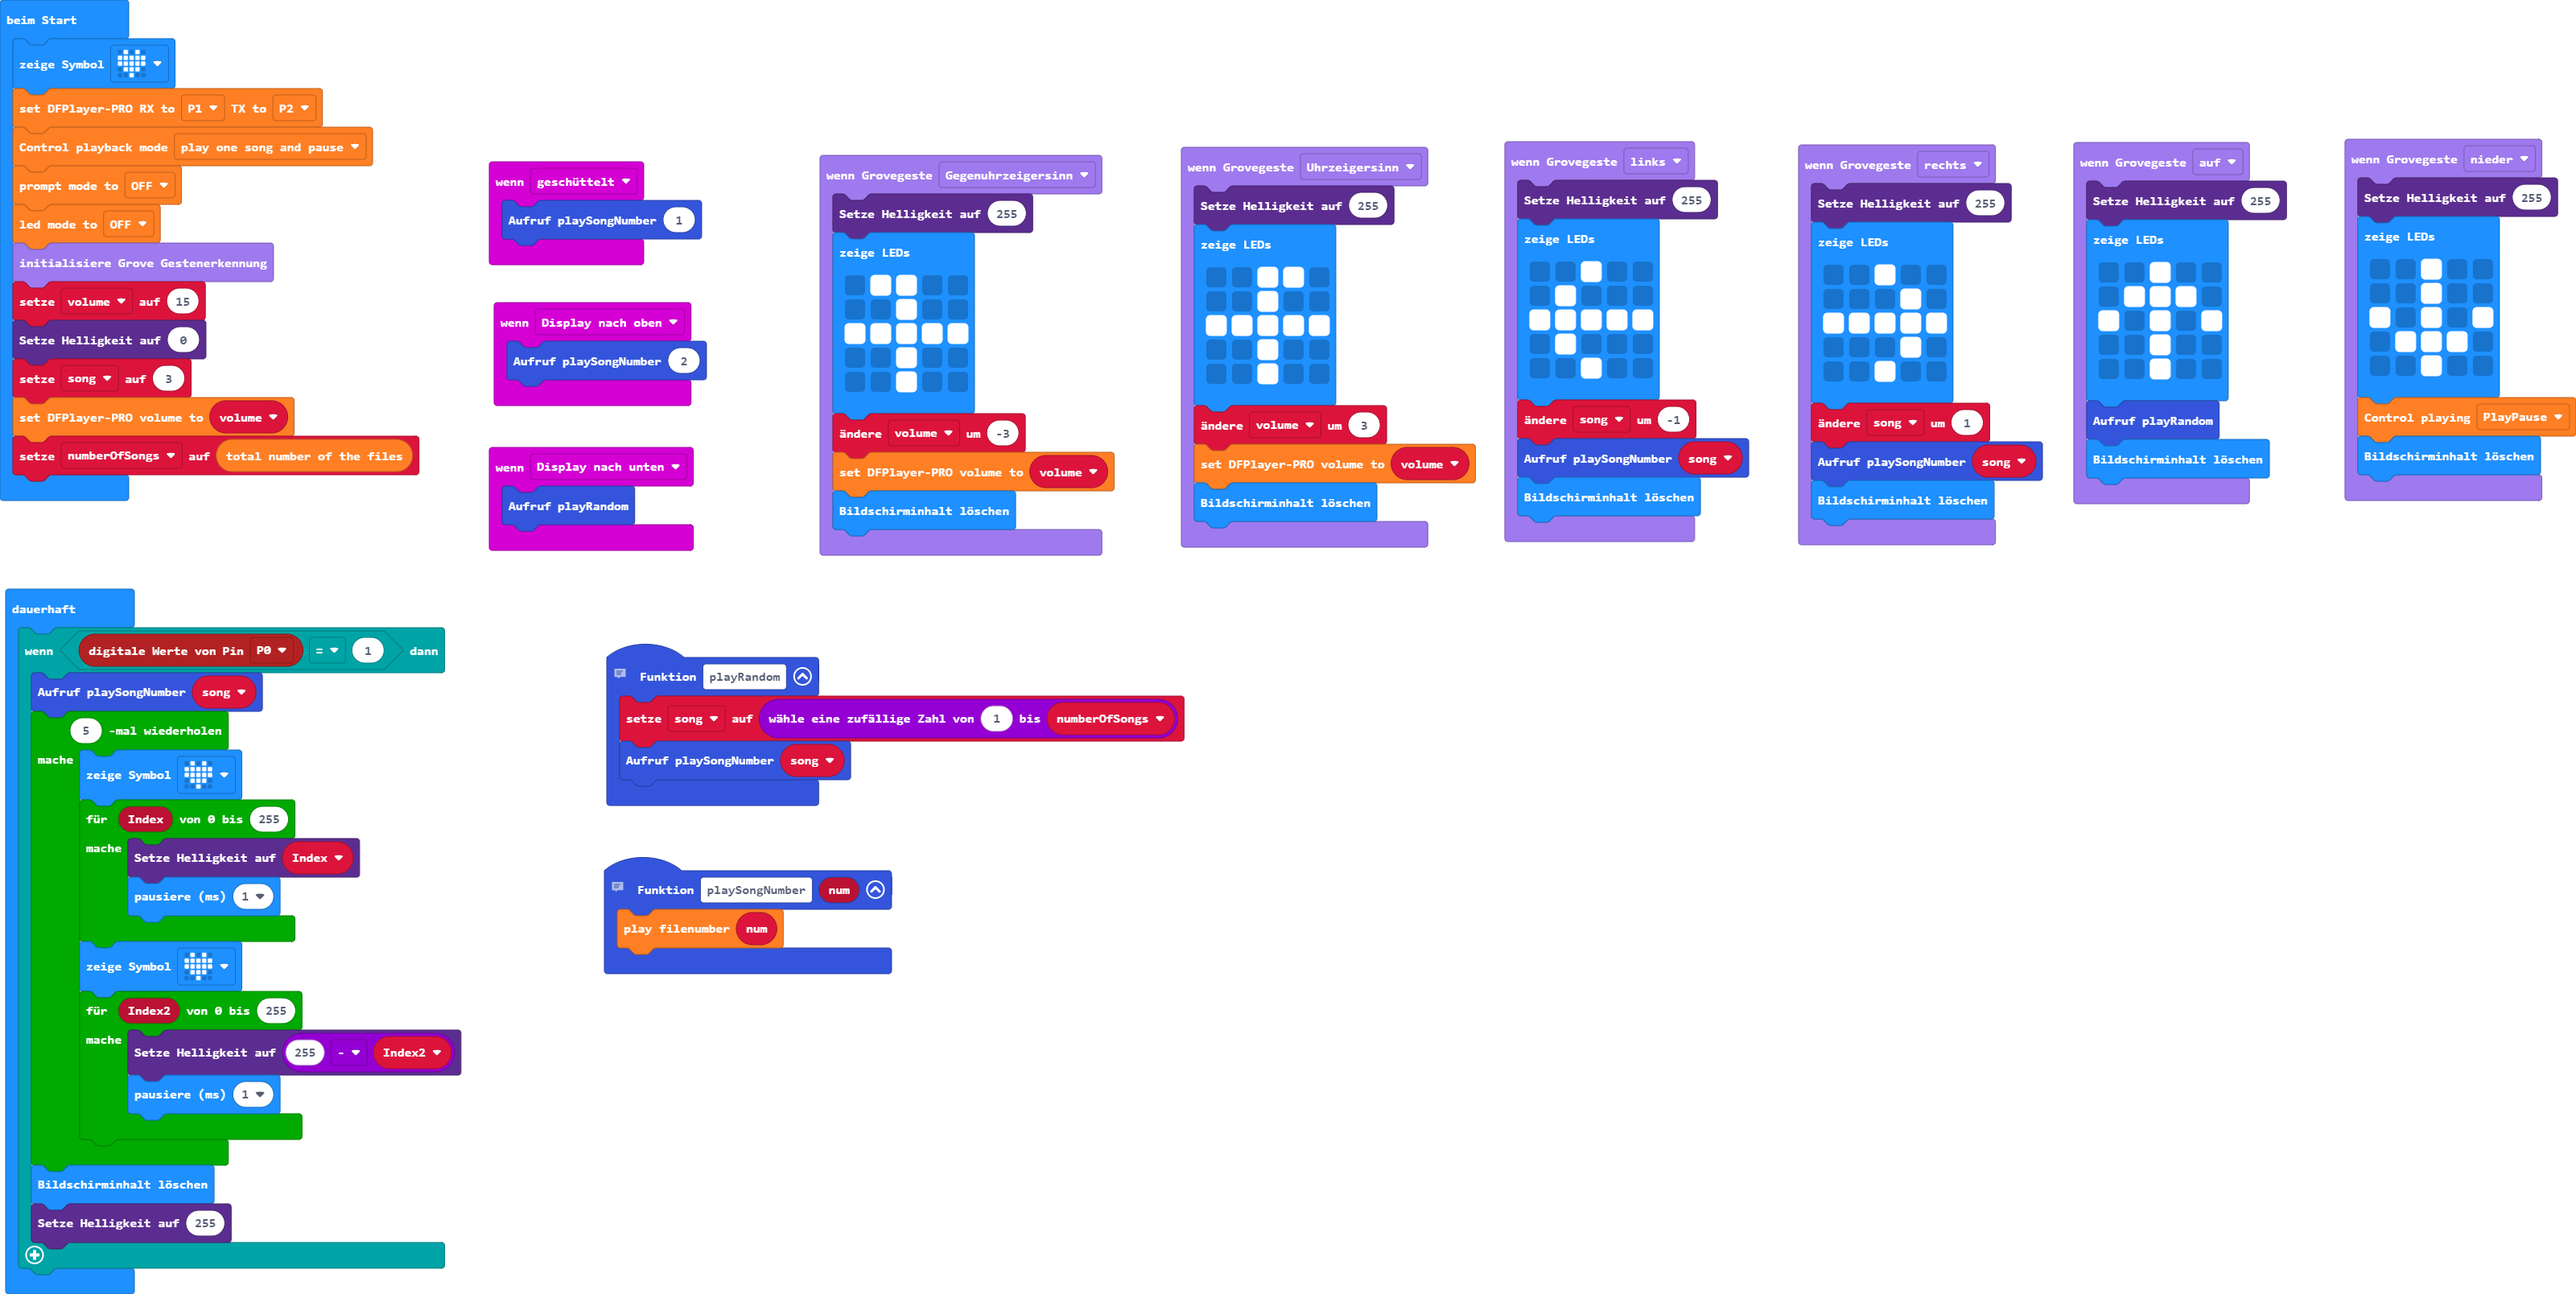
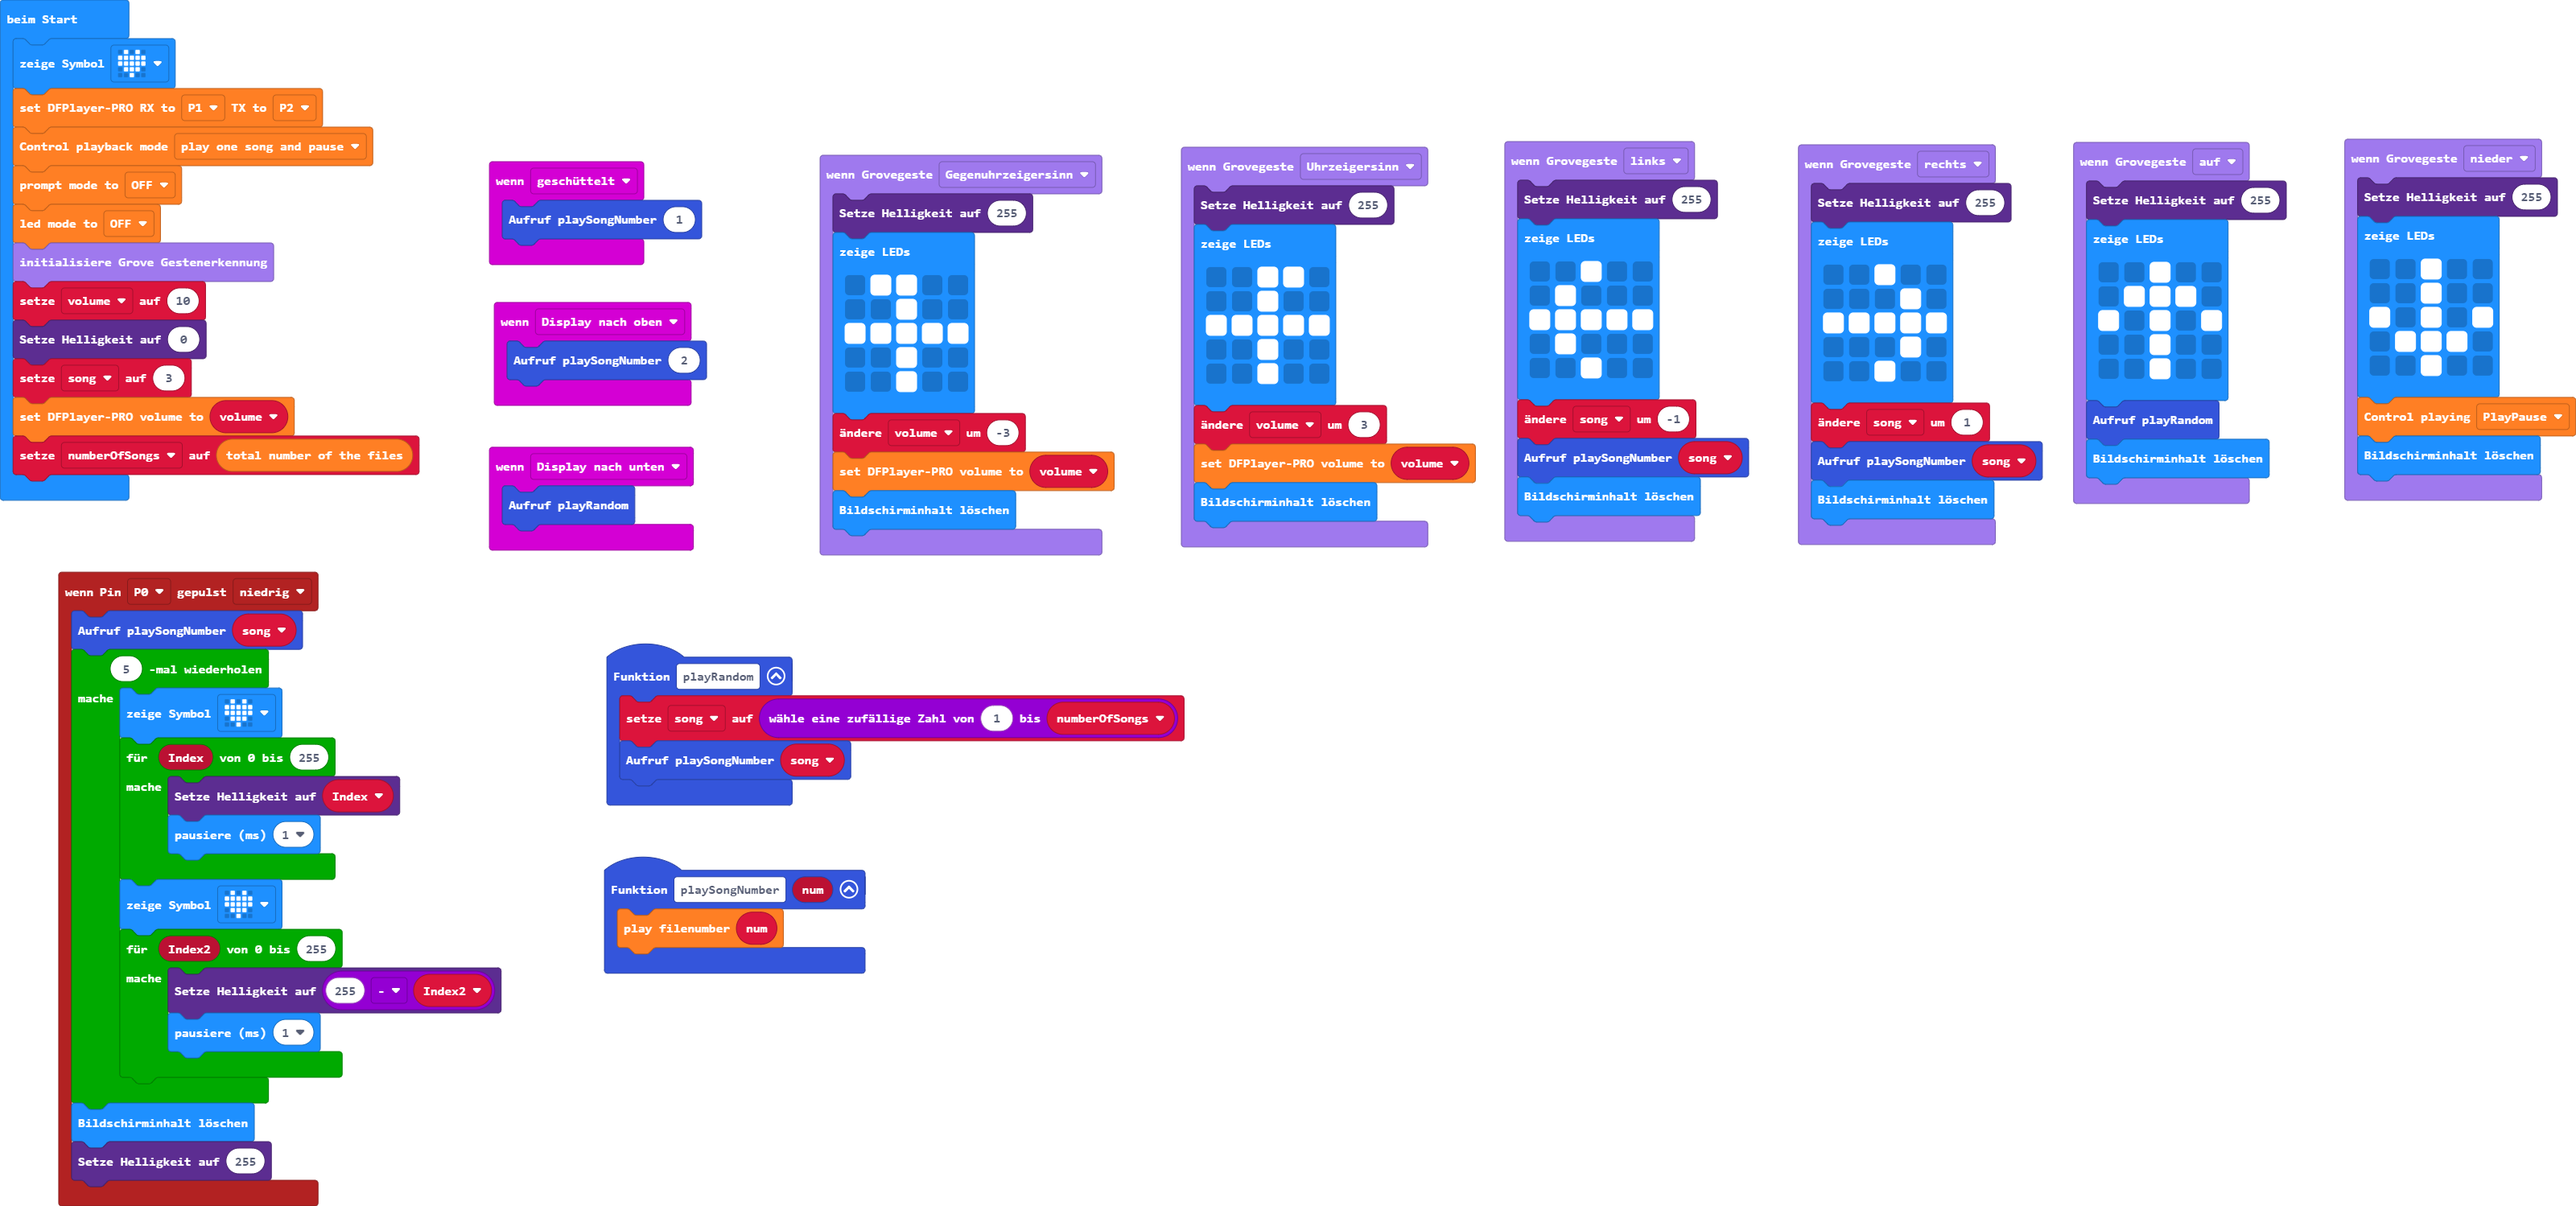
trigger changed

Changed region(s): [[0.0, 0.0, 0.4686, 1.0], [0.3124, 0.0921, 1.0, 0.4603]]

diff --git a/main.ts b/main.ts
@@ -11,7 +11,6 @@ grove.onGesture(GroveGesture.Right, function () {
     playSongNumber(song)
     basic.clearScreen()
 })
-// dfplayer.folderPlay(1, song, dfplayer.yesOrNot.type1)
 function playRandom () {
     song = randint(1, numberOfSongs)
     playSongNumber(song)
@@ -44,7 +43,6 @@ grove.onGesture(GroveGesture.Up, function () {
     playRandom()
     basic.clearScreen()
 })
-// dfplayer.folderPlay(1, num, dfplayer.yesOrNot.type1)
 function playSongNumber (num: number) {
     DFPlayerPro.MP3_playFileNum(num)
 }
@@ -89,6 +87,23 @@ grove.onGesture(GroveGesture.Anticlockwise, function () {
 input.onGesture(Gesture.Shake, function () {
     playSongNumber(1)
 })
+pins.onPulsed(DigitalPin.P0, PulseValue.Low, function () {
+    playSongNumber(song)
+    for (let index = 0; index < 5; index++) {
+        basic.showIcon(IconNames.Heart)
+        for (let Index = 0; Index <= 255; Index++) {
+            led.setBrightness(Index)
+            basic.pause(1)
+        }
+        basic.showIcon(IconNames.Heart)
+        for (let Index2 = 0; Index2 <= 255; Index2++) {
+            led.setBrightness(255 - Index2)
+            basic.pause(1)
+        }
+    }
+    basic.clearScreen()
+    led.setBrightness(255)
+})
 input.onGesture(Gesture.ScreenUp, function () {
     playSongNumber(2)
 })
@@ -101,27 +116,8 @@ DFPlayerPro.MP3_setPlayMode(DFPlayerPro.playType.playOneSongAndPause)
 DFPlayerPro.MP3_promtMode(DFPlayerPro.promtType.promtOff)
 DFPlayerPro.MP3_ledMode(DFPlayerPro.ledType.ledOff)
 grove.initGesture()
-volume = 15
+volume = 10
 led.setBrightness(0)
 song = 3
 DFPlayerPro.MP3_setVol(volume)
 numberOfSongs = DFPlayerPro.MP3_getTotalFileNumber()
-basic.forever(function () {
-    if (pins.digitalReadPin(DigitalPin.P0) == 1) {
-        playSongNumber(song)
-        for (let index = 0; index < 5; index++) {
-            basic.showIcon(IconNames.Heart)
-            for (let Index = 0; Index <= 255; Index++) {
-                led.setBrightness(Index)
-                basic.pause(1)
-            }
-            basic.showIcon(IconNames.Heart)
-            for (let Index2 = 0; Index2 <= 255; Index2++) {
-                led.setBrightness(255 - Index2)
-                basic.pause(1)
-            }
-        }
-        basic.clearScreen()
-        led.setBrightness(255)
-    }
-})
